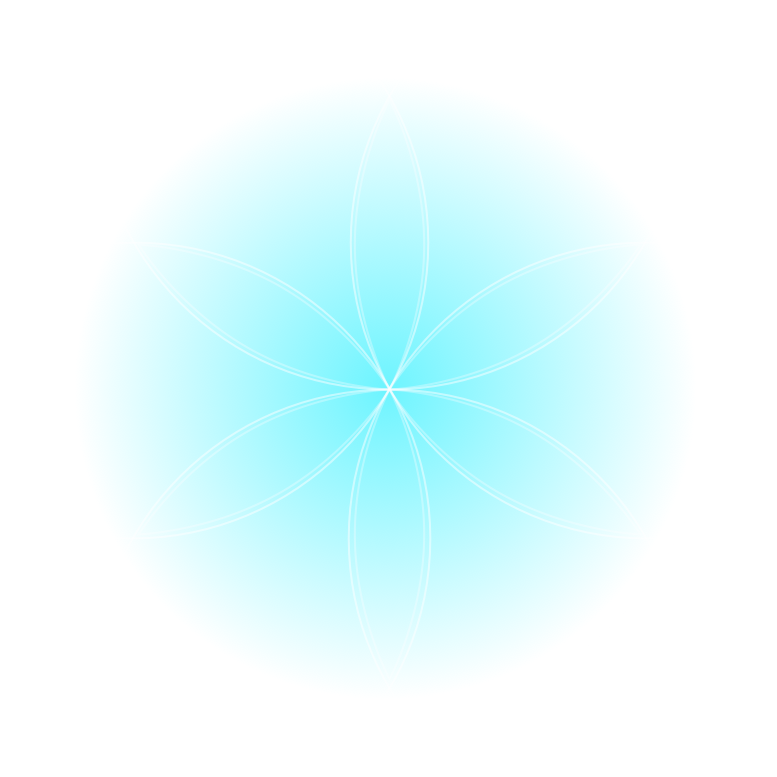
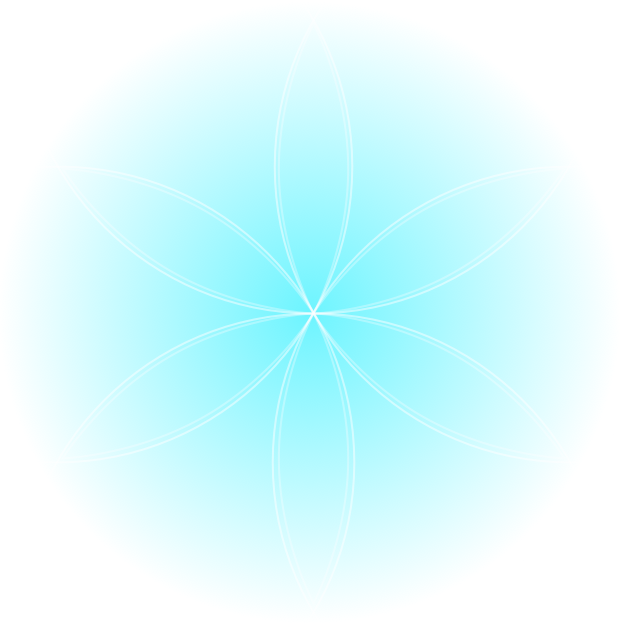
008 img less 750px

diff --git a/index.html b/index.html
@@ -144,7 +144,7 @@
             <div class="article">
 
                 <div class="postIMG">
-                    <div class="imgWIDER750PX">
+                    <div class="imgLESS750PX">
                         <a href="No./008.html"><img src="img/008thb.png" alt=""></a>
 
 
